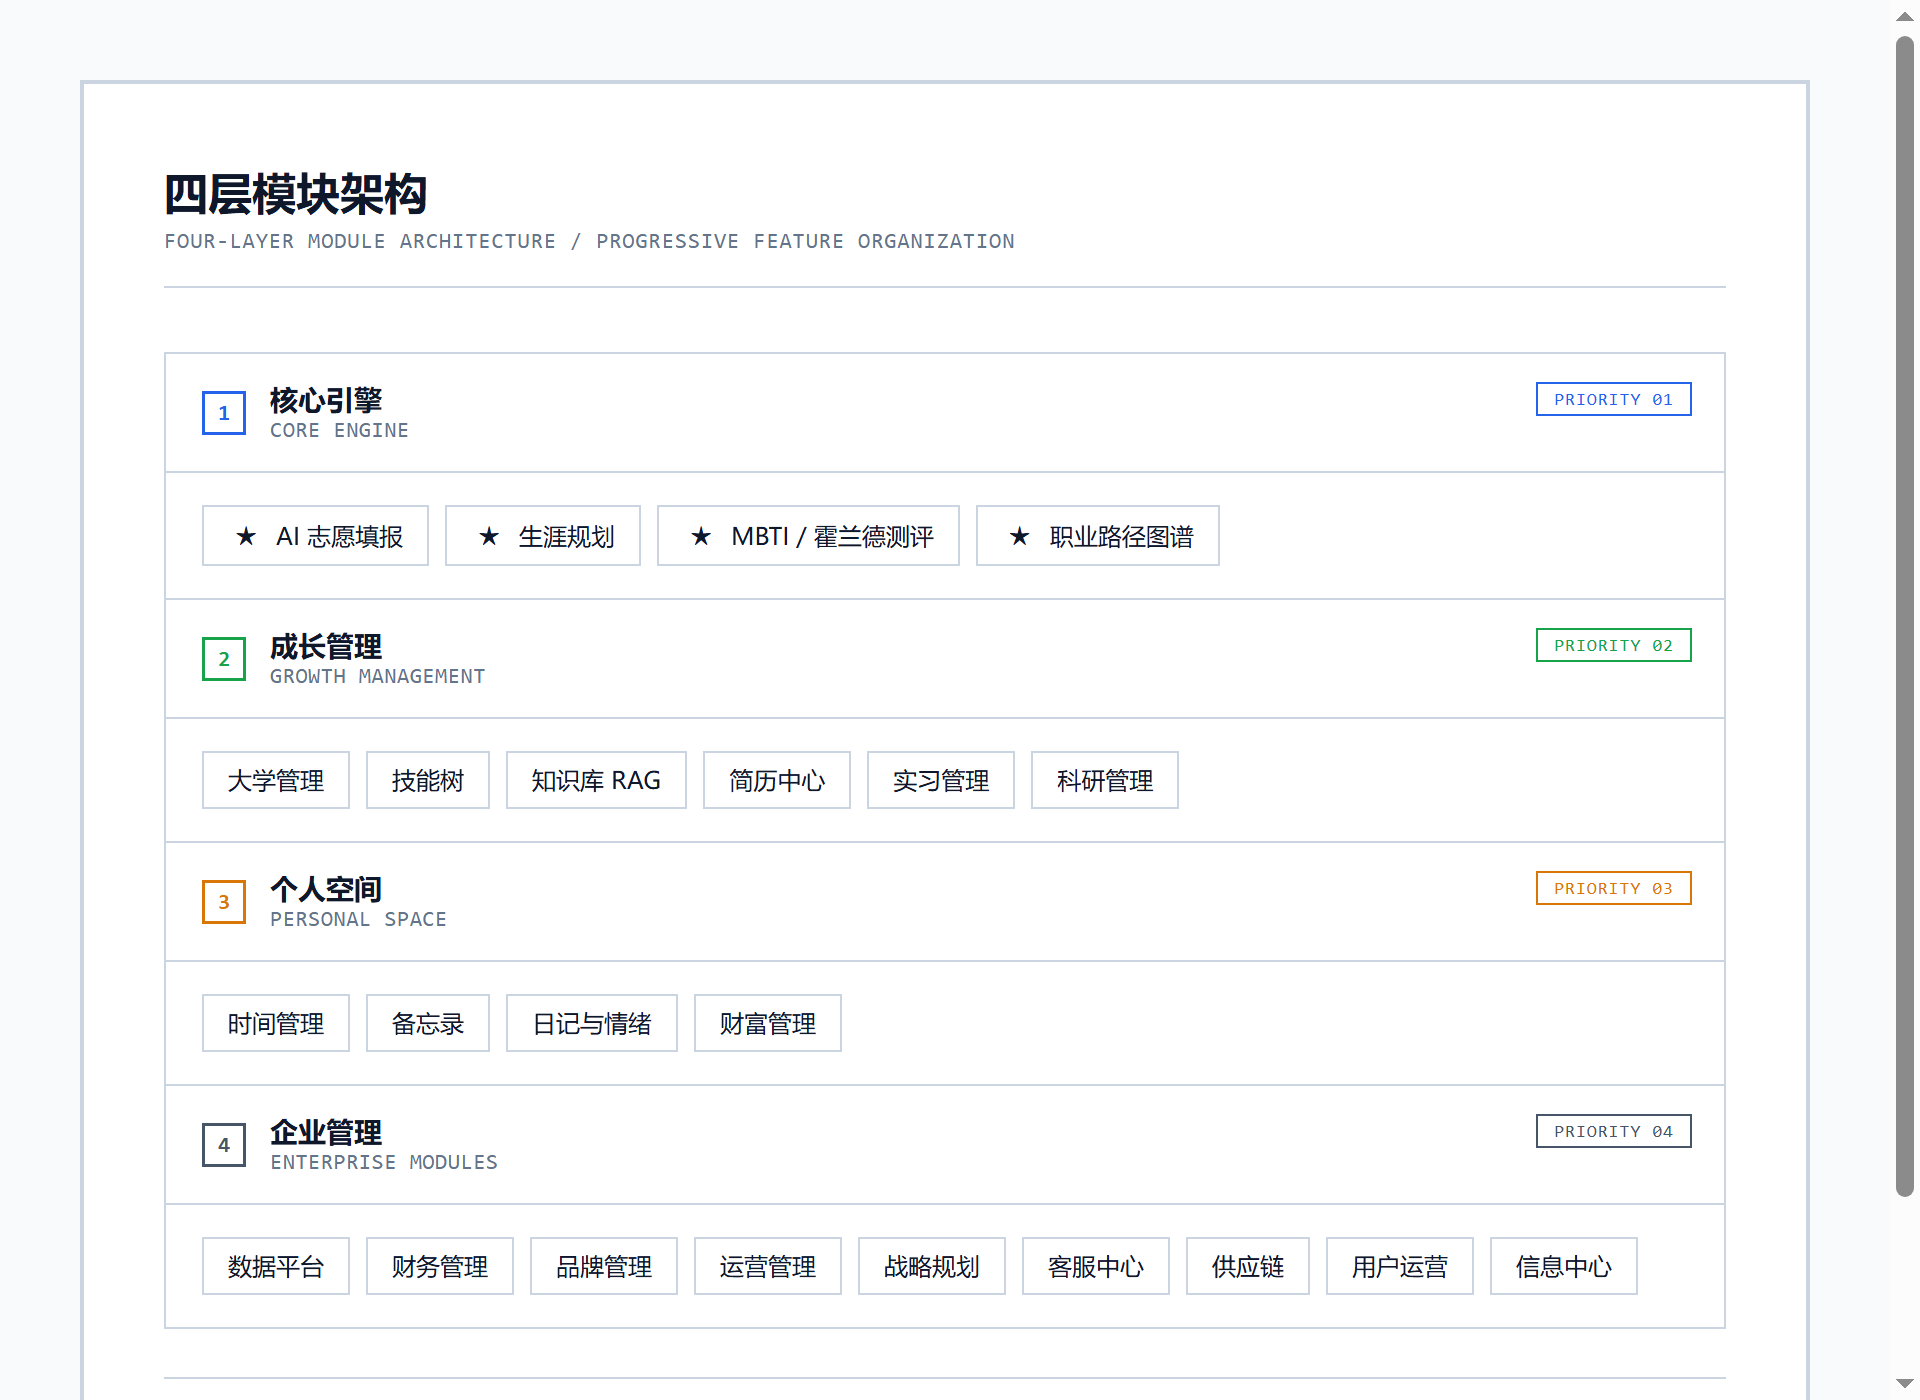
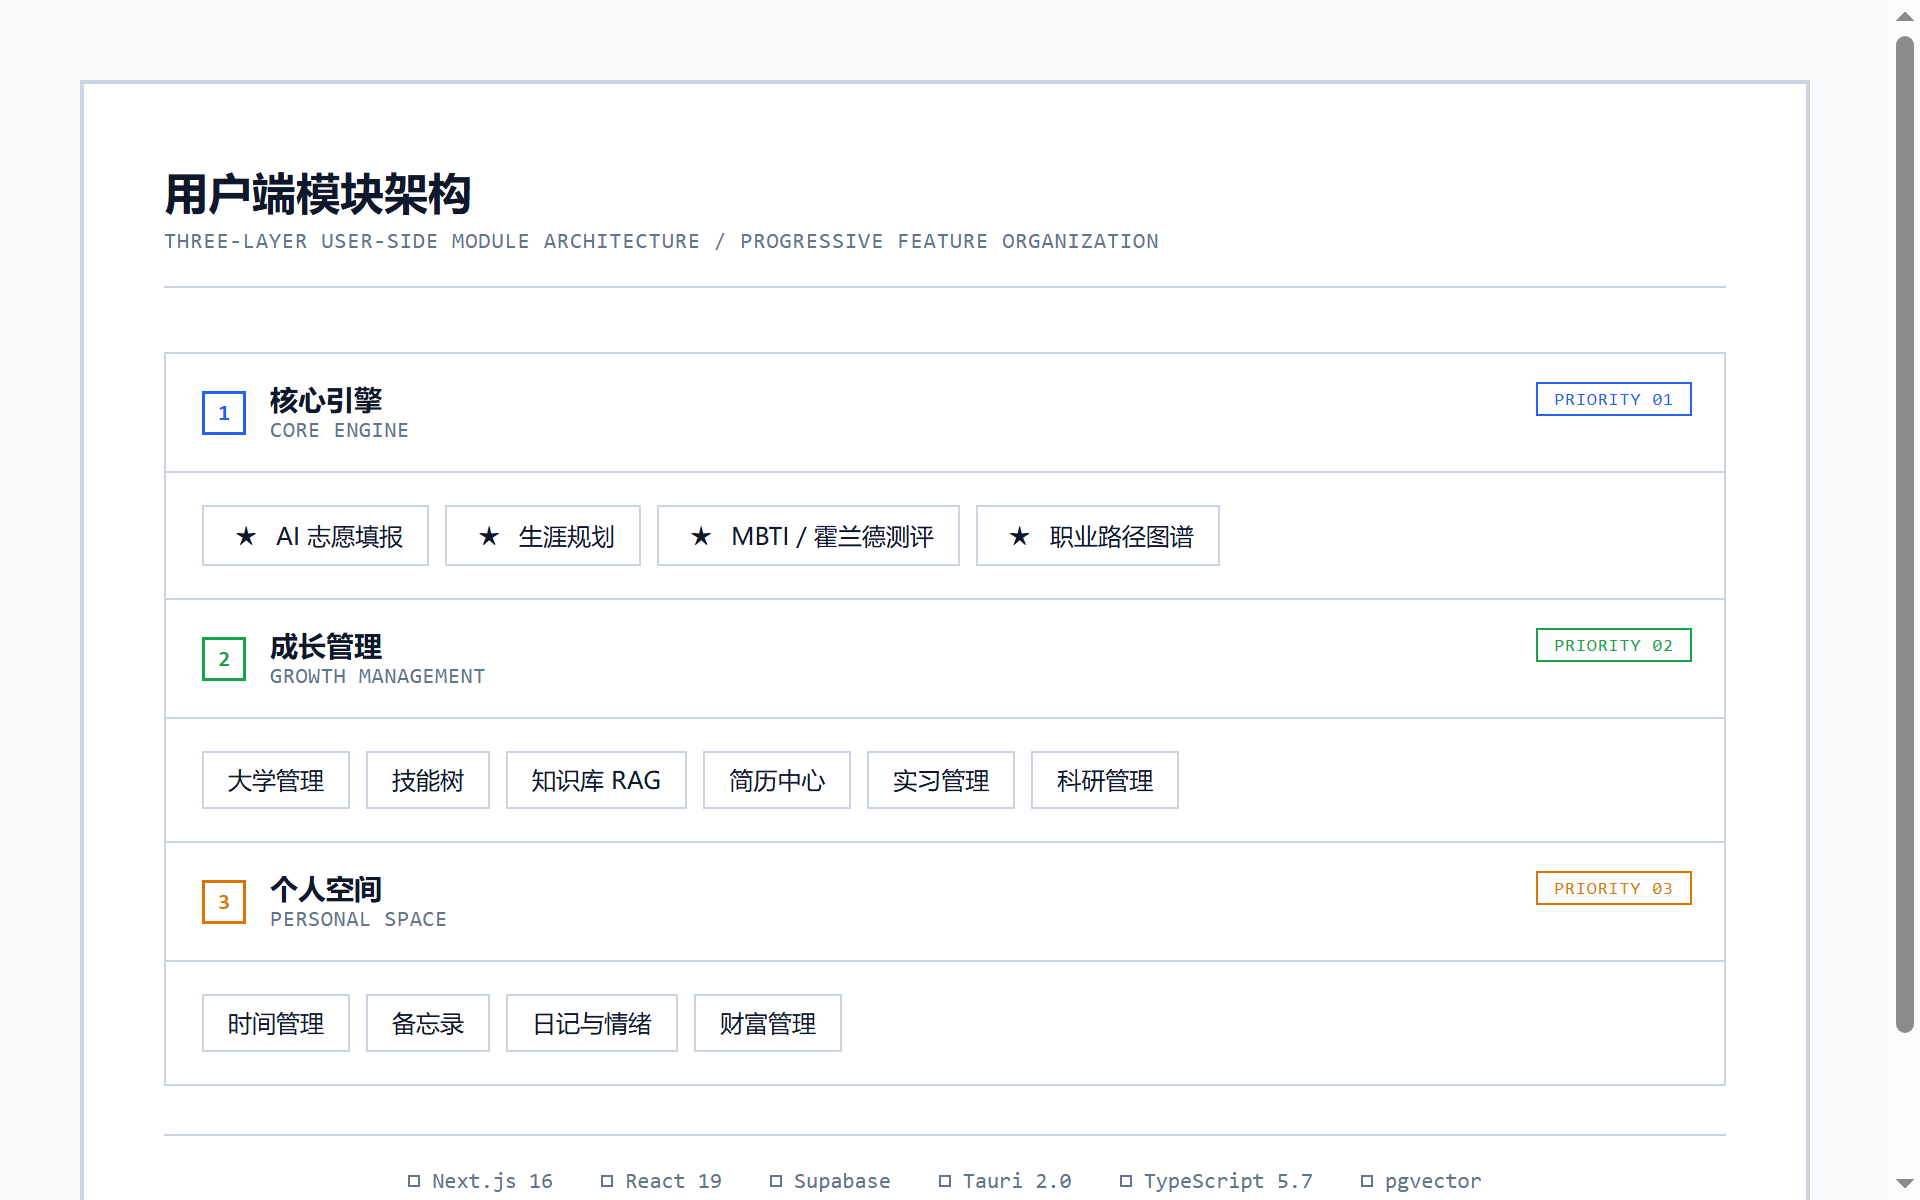
docs: 用户端/商家端架构分离 — 三层用户模块图 + 商家后台图
- 用户端模块架构图从四层改为三层（去掉企业管理层）
- 新增商家后台架构图（业务运营层 + 服务支撑层 + 基础设施）
- README 核心特性表：9大企业模块 → 商家后台
- 迭代路线 Phase 8：企业模块 → 商家后台

diff --git a/README.md b/README.md
@@ -62,7 +62,7 @@
 | **知识库** — Markdown 笔记、语义搜索(pgvector)、RAG 问答 | **简历中心** — 多版本管理、AI 润色、JD 匹配打分 |
 | **实习管理** — 申请追踪、AI 面试模拟、实习复盘 | **科研管理** — 论文笔记、AI 摘要、发表追踪 |
 | **时间管理** — 日程/待办、番茄钟、AI 周回顾 | **日记与情绪** — 情绪追踪、AI 成长洞察、时间轴回顾 |
-| **财富管理** — 收支记账、预算设定、AI 消费洞察 | **9 大企业模块** — 数据平台/财务/品牌/运营/战略/客服/供应链/用户运营/信息中心 |
+| **财富管理** — 收支记账、预算设定、AI 消费洞察 | **商家后台** — 数据平台/财务/品牌/运营/战略/客服/供应链/用户运营/信息中心 |
 
 </div>
 
@@ -181,13 +181,23 @@ npx supabase db push
 
 <br/>
 
-## 模块架构
+## 用户端模块架构
 
-知渡将所有功能模块分为四层，按优先级递进：
+知渡用户端将所有功能模块分为三层，按优先级递进：
 
 <div align="center">
 
-<img src="https://raw.githubusercontent.com/sjkncs/zhidu/master/docs/images/module-architecture.png" width="800" alt="Four-Layer Module Architecture" />
+<img src="https://raw.githubusercontent.com/sjkncs/zhidu/master/docs/images/module-architecture.png" width="800" alt="Three-Layer User-Side Module Architecture" />
+
+</div>
+
+## 商家后台架构
+
+企业管理模块独立于用户端，运行在商家后台，包含 9 大业务模块：
+
+<div align="center">
+
+<img src="https://raw.githubusercontent.com/sjkncs/zhidu/master/docs/images/merchant-backend.png" width="800" alt="Merchant Backend Architecture" />
 
 </div>
 
@@ -205,7 +215,7 @@ npx supabase db push
 | 5 | 简历 + 实习 + 科研 | 简历编辑 + AI 润色 + 申请追踪 | **Done** |
 | 6 | 日常工具 | 日程 + 待办 + 番茄钟 + 备忘 + 日记 | **Done** |
 | 7 | 补充 + AI 助手 | 记账 + 关系记录 + 全局 AI 对话 | **Done** |
-| 8 | 企业模块 | 9 大企业管理模块（26 表 + 10 API） | **Done** |
+| 8 | 商家后台 | 9 大企业管理模块（26 表 + 10 API） | **Done** |
 | 9 | 多端 + 数据 | 桌面端增强 + PWA + 年报 + 备份 | **Planned** |
 
 <br/>